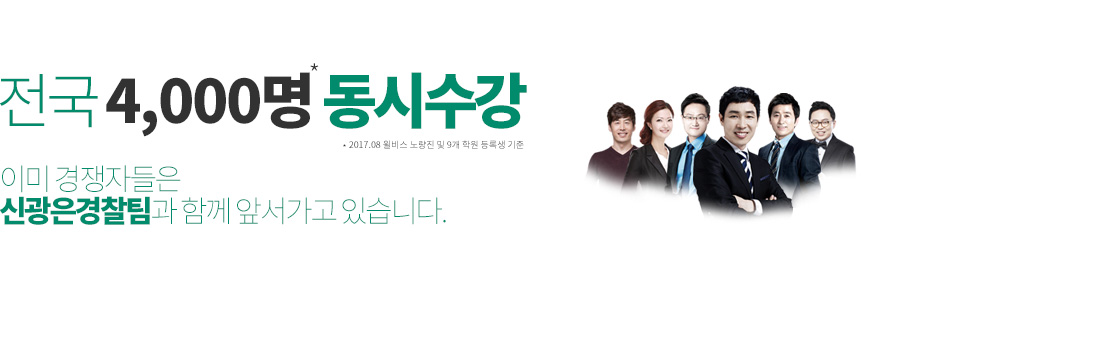
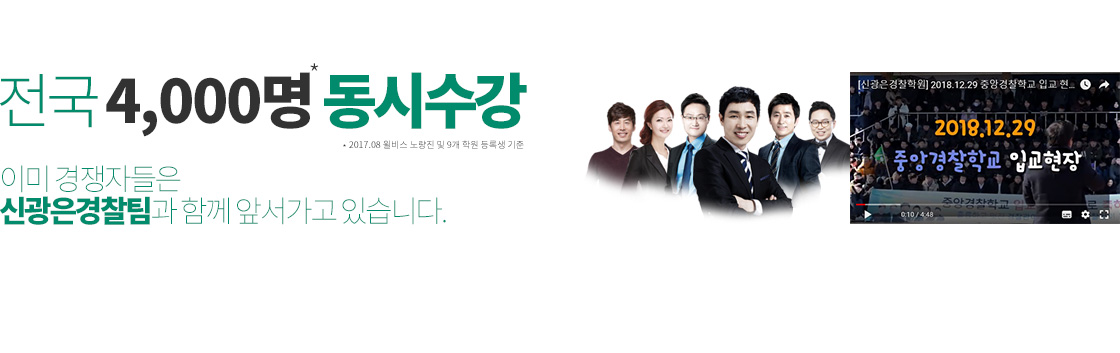
경행경채 메인

Changed region(s): [[0.75, 0.187, 1.0, 0.6544]]

diff --git a/views/willbes/pc/site/main_2001_3002.blade.php b/views/willbes/pc/site/main_2001_3002.blade.php
@@ -8,8 +8,10 @@
 
         <div class="Section MainVisual">
             <div class="widthAuto">
-                <iframe src="https://www.youtube.com/embed/lrZxQV21DE8?rel=0&modestbranding=1&showinfo=0&&wmode=transparent" frameborder="0" allowfullscreen=""></iframe>
-                <img src="{{ img_url('cop_adm/visual/visual_190213.jpg') }}" alt="전국 4,000명 동시수강">
+                <!--iframe src="https://www.youtube.com/embed/lrZxQV21DE8?rel=0&modestbranding=1&showinfo=1&controls=2" frameborder="0" allowfullscreen=""></iframe-->
+                <a href="{{ site_url('/promotion/index/cate/3001/code/1019') }}" target="_blank">
+                    <img src="{{ img_url('cop/visual/visual_190213.jpg') }}" alt="전국 4,000명 동시수강">
+                </a>
             </div>
         </div>
 
